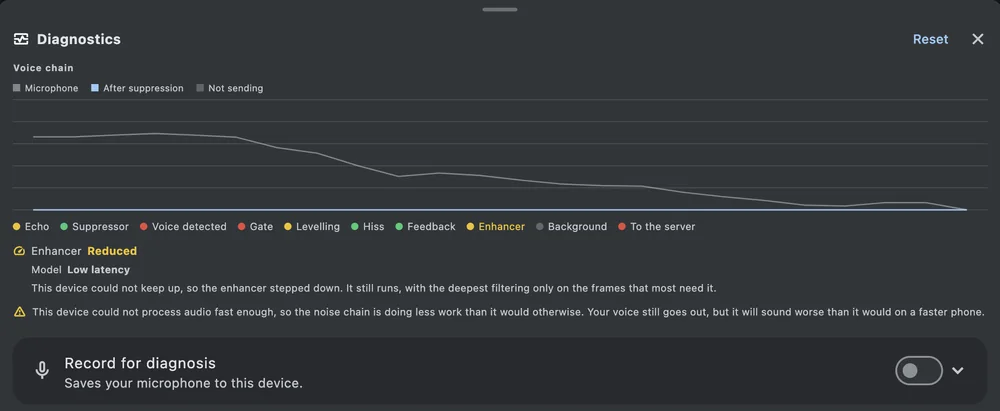
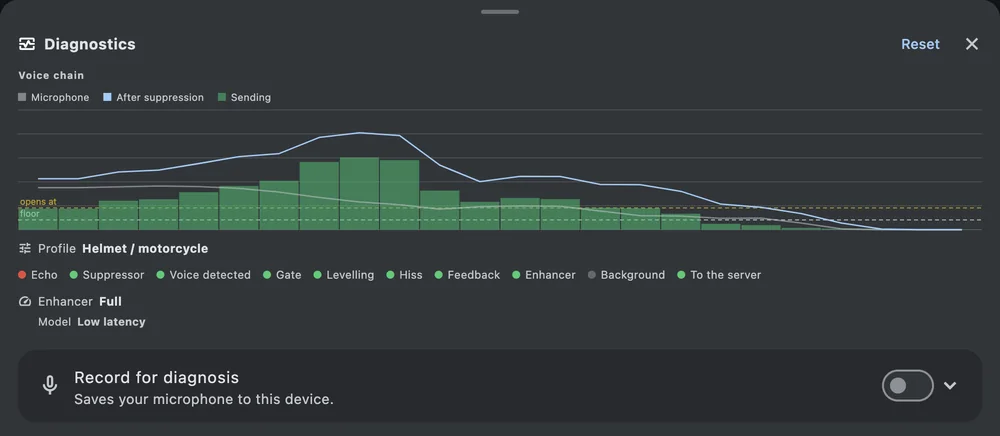
Put the Apple captures on the site, and give the orphaned Mac shot a page
Three shots, all from the current build against a public server.

**home-macos.webp** is retaken. Its alt text described three saved servers and a
welcome message, which is what the old picture had; this one is a single server
card, two people in the channel and the channel tree, so the alt says that
instead. The caption's claim survives untouched because the new shot still says
**TCP** in amber — a different network, the same reading, which is the point the
caption was making.

**diagnostics-macos.webp** was committed in 63db3ee and referenced by nothing,
in any language, ever. It is retaken and now has a page. It goes under the
paragraph that explains noise floor and opens at, because that paragraph
describes two levels the site had no picture of: the numbers were in the
counters figure, the dashed lines on the plot were in no figure at all. The
analyser figure above it is from Android and predates the marks entirely.

**listen-ios.webp** is new, under "The two playback toggles" — a section that
described both switches in prose and had no figure of its own. The only picture
of that sheet anywhere was Android, sitting above the section rather than in it.

Cropping followed SITE_PLAN.md: the Mac panel is cut to the sheet with no window
chrome, as degraded-windows.webp does, and both edges snapped to rows with no
ink in them — found by scanning for them rather than by eye. The first attempt
at the iPhone sheet cut at the dimmed overlay behind it and caught a line of the
[…]

diff --git a/docs/diagnostics.md b/docs/diagnostics.md
@@ -178,6 +178,20 @@ has settled on as this environment's quiet, and **opens at** is the level a
 block has to beat to be sent. On a bike at speed the floor climbs and the threshold climbs with it —
 which is what the noise profiles are for.
 
+<div class="shots">
+  <figure>
+    <img src="{{ '/assets/img/shots/diagnostics-macos.webp' | relative_url }}"
+         alt="The diagnostics panel on macOS: the analyser drawing a live
+              spectrum with green bars for the blocks that went out, two dashed
+              lines across it labelled floor and opens at, the ten stage dots
+              all green, and the enhancer running at full."
+         width="1000" height="436" loading="lazy" decoding="async">
+    <figcaption>The same two levels, drawn. On a Mac there is headroom to run
+    the whole chain, so every dot is green and the enhancer says
+    <strong>Full</strong>.</figcaption>
+  </figure>
+</div>
+
 ### Where a block's 10 ms goes
 
 <div class="shots">
@@ -335,6 +349,19 @@ device.
 
 They combine: both on is the closest you can get, on your own, to sitting at
 the other end.
+
+<div class="shots">
+  <figure>
+    <img src="{{ '/assets/img/shots/listen-ios.webp' | relative_url }}"
+         alt="The listen-back sheet on iPhone with both switches on: the voice
+              icon filled green and the chain icon filled amber, a waveform
+              whose green stretches are the parts that went to the server, the
+              playhead at the start, and the elapsed and total time."
+         width="560" height="460" loading="lazy" decoding="async">
+    <figcaption>Both on, on an iPhone — green for transmitted only, amber for
+    through the chain.</figcaption>
+  </figure>
+</div>
 
 **A recording with no green in it at all** has a note under the waveform saying
 why — muted, push-to-talk, or a gate that never opened. That distinction

diff --git a/docs/index.md b/docs/index.md
@@ -196,11 +196,11 @@ the channel and who is in it down the other.
   </figure>
   <figure>
     <img src="{{ '/assets/img/shots/home-macos.webp' | relative_url }}"
-         alt="MumbleWay on macOS, connected: three saved servers down the left,
-              the connected one showing its voice path as TCP tunnelled in
-              amber, the channel and welcome message on the right, and a live
-              microphone meter along the bottom."
-         width="1000" height="724" loading="lazy" decoding="async">
+         alt="MumbleWay on macOS, connected to a public server: the server card
+              down the left showing its voice path as TCP tunnelled in amber,
+              two people in the channel and the channel tree on the right, and a
+              live microphone meter along the bottom."
+         width="1000" height="720" loading="lazy" decoding="async">
     <figcaption>macOS. This one says <strong>TCP</strong> rather than UDP — the
     network was not passing the voice port, and the app says so instead of
     quietly sounding worse.</figcaption>
